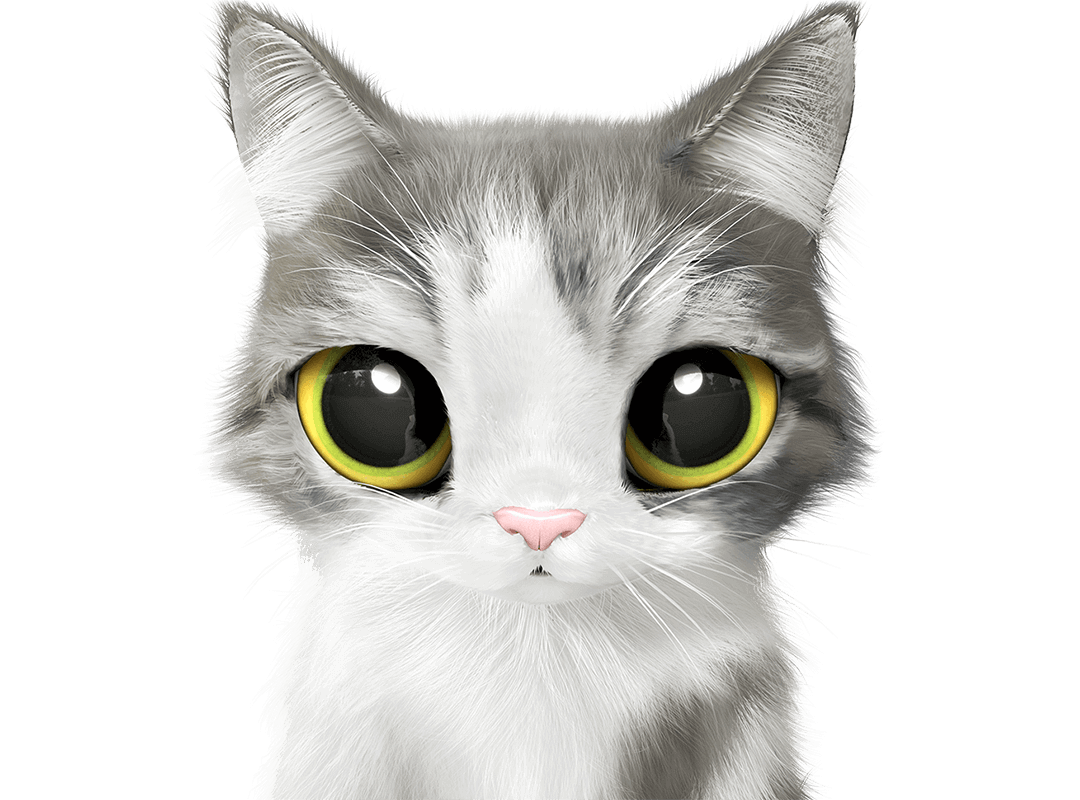
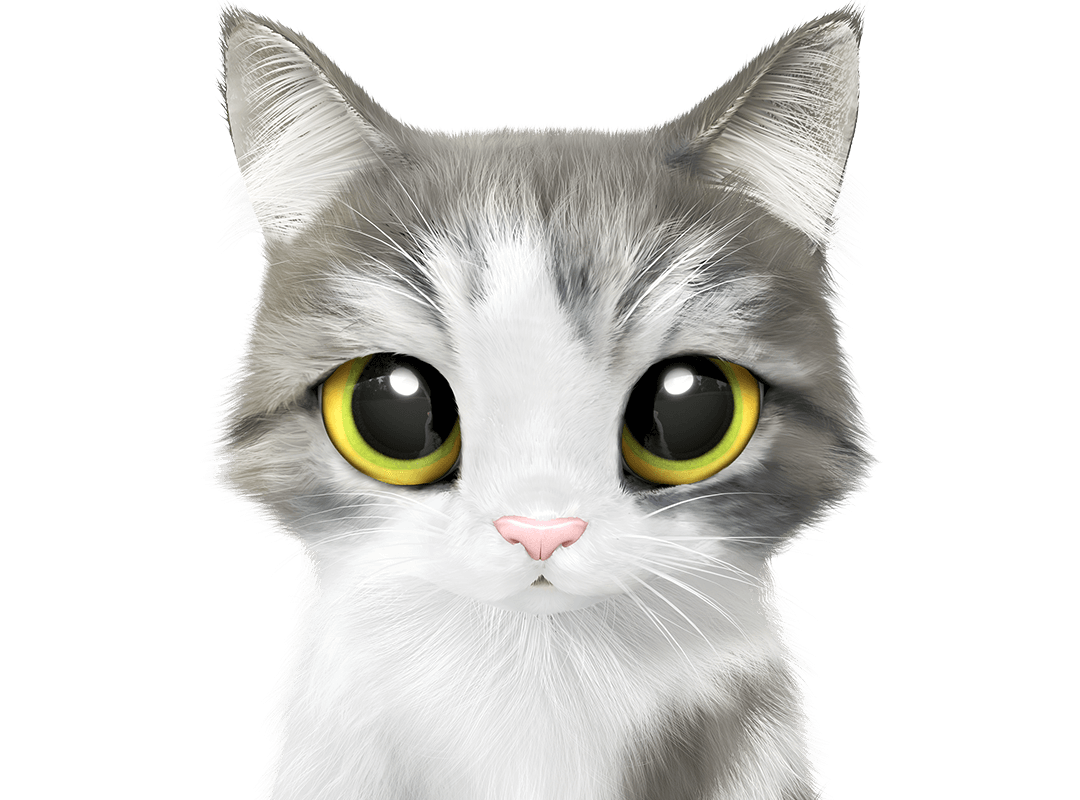
구르미 이미지 교체, NFT배너교체

Changed region(s): [[0.1833, 0.0, 0.825, 1.0], [0.3667, 0.9688, 0.3972, 1.0]]

diff --git a/index.html b/index.html
@@ -273,9 +273,9 @@
 
 <!-- NFT banner -->
   <div class="">
-         <a class="lang en" href="https://foundation.app/sugarcat"><img src="img/banner_nft.jpg" class="banner img no_margin" alt="sugarcat nft"></a>
-         <a class="lang ja hidden" href="https://foundation.app/sugarcat"><img src="img/banner_nft.jpg" class="banner img no_margin" alt="sugarcat nft"></a>
-         <a class="lang ko hidden" href="https://foundation.app/sugarcat"><img src="img/banner_nft.jpg" class="banner img no_margin" alt="sugarcat nft"></a>
+         <a class="lang en" href="https://tryshowtime.com/sugarcat"><img src="img/banner_nft.jpg" class="banner img no_margin" alt="sugarcat nft"></a>
+         <a class="lang ja hidden" href="https://tryshowtime.com/sugarcat"><img src="img/banner_nft.jpg" class="banner img no_margin" alt="sugarcat nft"></a>
+         <a class="lang ko hidden" href="https://tryshowtime.com/sugarcat"><img src="img/banner_nft.jpg" class="banner img no_margin" alt="sugarcat nft"></a>
   </div>
 <!--// NFT banner -->
 
